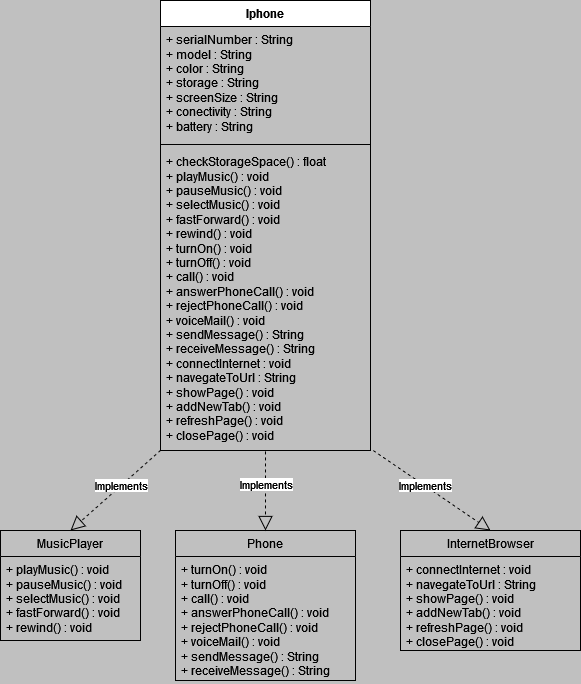
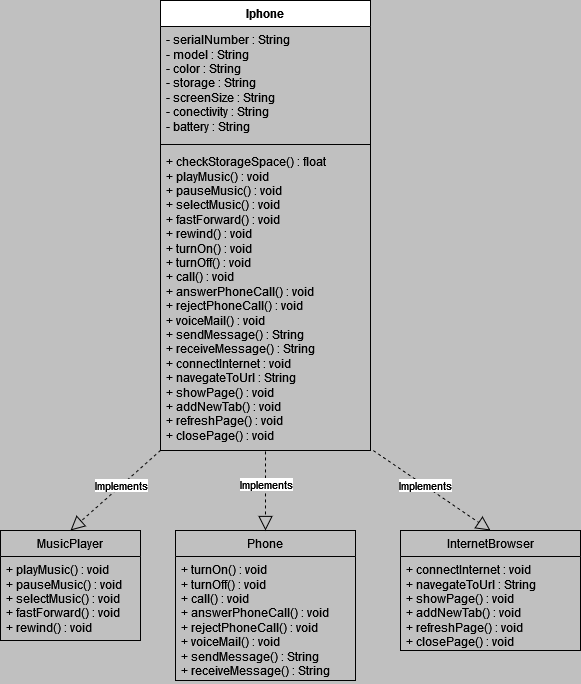
fixed attributes encapsulation on diagram and fixed a method type on the Iphone class

Changed region(s): [[0.2788, 0.0307, 0.4957, 0.2149]]

diff --git a/src/Iphone.java b/src/Iphone.java
@@ -65,10 +65,8 @@ public class Iphone implements MusicPlayer, InternetBrowser, Phone {
         return battery;
     }
 
-    public float checkStorageSpace() {
-        return 64.0f;
-    }
-
+    public String checkStorageSpace() {return "128GB"; }
+    
     //InternetBrowser Methods
     @Override
     public void connectInternet() {
